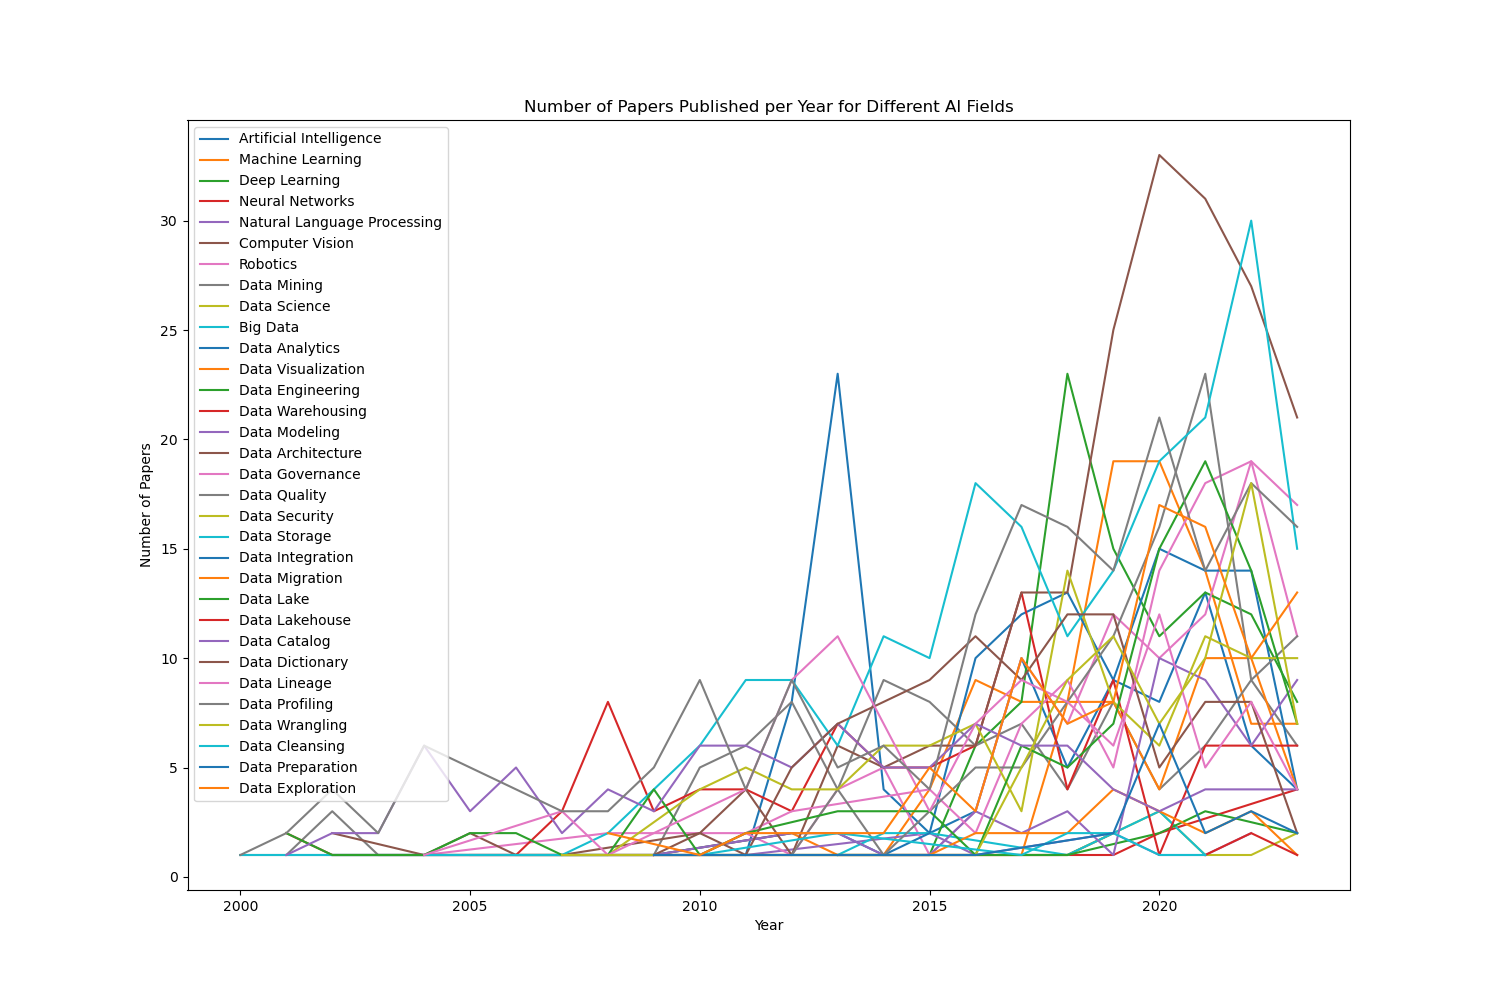
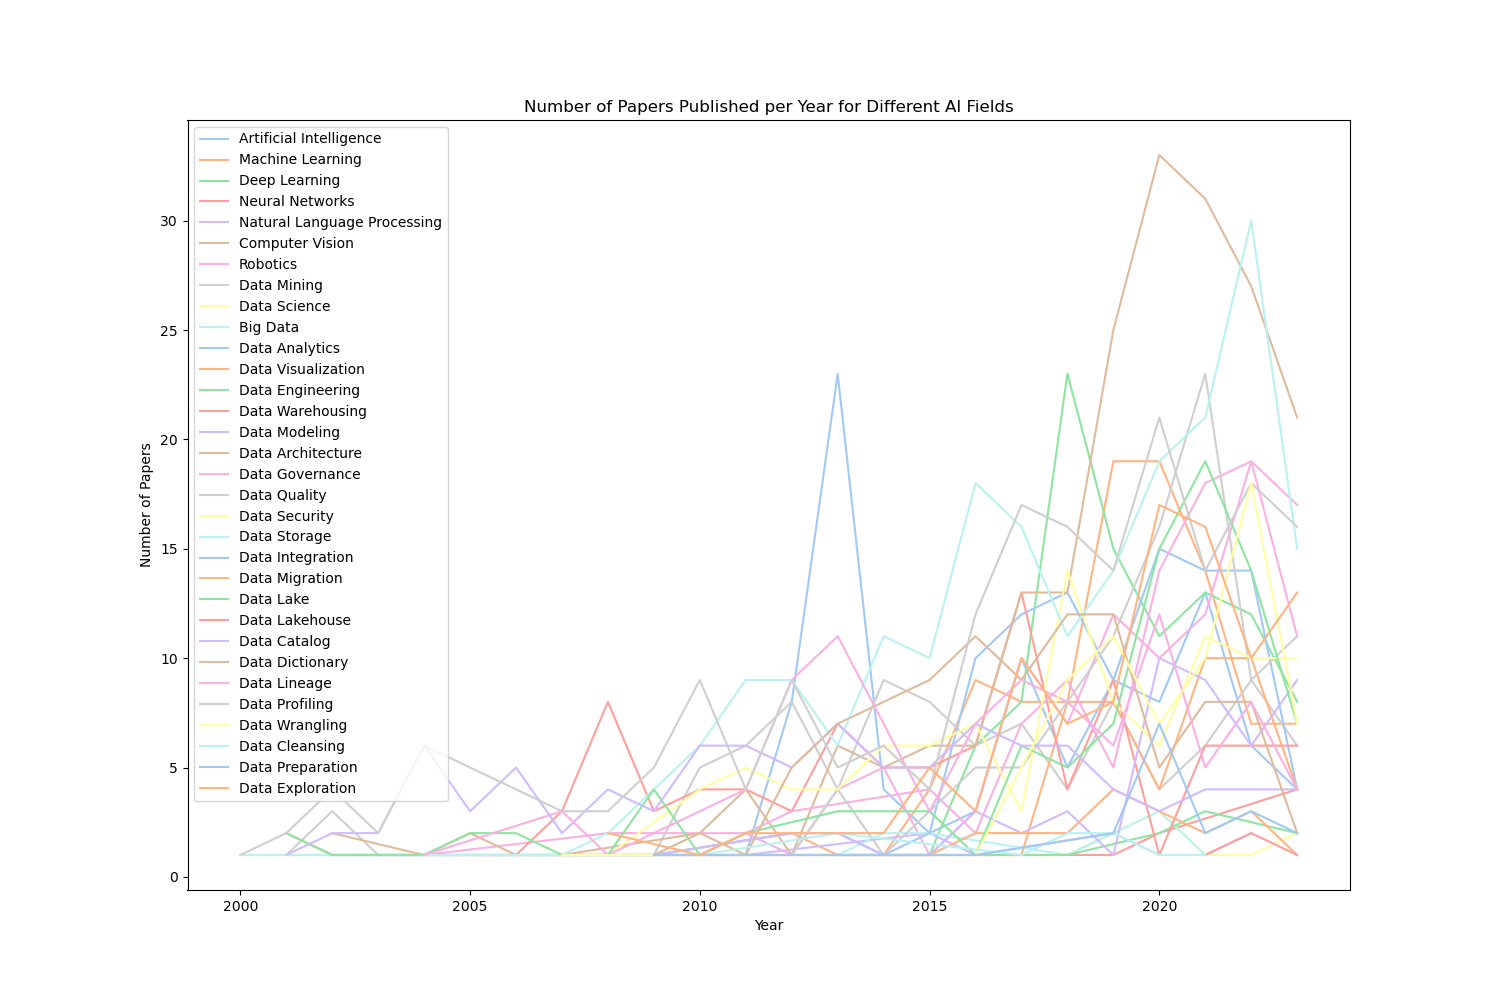
Made significant progress on RP. Data pull complete, picked plots and now made a gui for easy access

diff --git a/src/main.py b/src/main.py
@@ -6,37 +6,157 @@ over the course of a 10-year period, to track the growth of the field and to see
 if research has been speeding up or slowing down
 """
 
-#imports
+
+# imports
 import pandas as pd
 from src.arXiv_Api_Access import scrape_arxiv
 import matplotlib.pyplot as plt
 import seaborn as sns
+import tkinter as tk
+from matplotlib import widgets
+from matplotlib.backends.backend_tkagg import FigureCanvasTkAgg
+from matplotlib.figure import Figure
+from tkinter import Toplevel, Button, filedialog
+
+
+def update_data():
+   #update ai_research_data.xlsx with updated data
+   scrape_arxiv()
 
 
 
-# #update ai_research_data.xlsx with updated data
-# uncomment if needed to use
-# scrape_arxiv()
-#
-# # dataframe to be used through the program
+# Variables and options usable throughout the program
 df = pd.read_csv('data/ai_research_data.csv')
-
-#Line plot for number of papers published per year for each AI field
-plt.figure(figsize=[15,10])
-
-# Loop through each unique search query and plot a line for it
-for query in df['Query'].unique():
-    subset = df[df['Query'] == query]
-    subset['Year'].value_counts().sort_index().plot(label=query)
-
-plt.title('Number of Papers Published per Year for Different AI Fields')
-plt.xlabel('Year')
-plt.ylabel('Number of Papers')
-plt.legend()
-plt.savefig('output/Comparison_of_AI_Fields.png')
-plt.show()
-
-#
+pivot_data = df.groupby(['Year', 'Query']).size().reset_index(name='Count')
+pivot_data = pivot_data.pivot(index='Year', columns='Query', values='Count').fillna(0)
+total_sum = pivot_data.sum()
+sns.set_palette('pastel')
 
 
+def create_menu(window, figure):
+    menu_bar = tk.Menu(window)
+    window.config(menu=menu_bar)
 
+    file_menu = tk.Menu(menu_bar, tearoff=0)
+    menu_bar.add_cascade(label="File", menu=file_menu)
+
+    # Pass both window and figure to the save function
+    file_menu.add_command(label="Save", command=lambda: save(window, figure))
+
+
+def save(parent_window, figure):
+    # Create a new Toplevel window
+    save_window = tk.Toplevel(parent_window)
+
+    # Make it modal by setting it as transient to the parent window
+    save_window.transient(parent_window)
+
+    # Set the title for the dialog window
+    save_window.title("Save As")
+
+    # Create a label to prompt the user
+    tk.Label(save_window, text="Choose a location to save the file:").pack()
+
+    # Create a button to open the "Save As" file dialog
+    tk.Button(save_window, text="Save", command=lambda: save_file(figure, save_window)).pack()
+
+    # Run the main loop for the dialog window
+    save_window.mainloop()
+
+
+def save_file(figure, save_window):
+    file_path = filedialog.asksaveasfilename(defaultextension=".png", filetypes=[("PNG files", "*.png"), ("All files", "*.*")])
+    if file_path:
+        figure.savefig(file_path)
+    save_window.destroy()
+
+
+def main_window():
+    root = tk.Tk()
+    root.title("AI Research Analysis")
+
+    tk.Button(root, text="Update Data", command=update_data).pack()
+    tk.Button(root, text="Show Bar Graph", command=show_bar_graph).pack()
+    tk.Button(root, text="Show Stacked Area Plot", command=show_stacked_area_plot).pack()
+    tk.Button(root, text="Show Heat Map", command=show_heat_graph).pack()
+    tk.Button(root, text="Exit", command=root.quit).pack()
+
+    root.mainloop()
+
+def show_bar_graph():
+    fig = Figure(figsize=[15, 10])
+    ax = fig.add_subplot(111)
+    bar_data = pivot_data.reset_index().melt(id_vars='Year')
+    sns.barplot(data=bar_data, x='Year', y='value', hue='Query', ax=ax)
+    ax.set_title('Number of Papers Published per Year for Different AI Fields')
+    ax.set_xlabel('Year')
+    ax.set_ylabel('Number of Papers')
+    ax.legend(title='Subject', loc='upper left')
+
+    new_window = Toplevel()
+    new_window.title("Bar Graph")
+
+    # create save menu
+    create_menu(new_window, fig)
+
+    canvas = FigureCanvasTkAgg(fig, master=new_window)
+    canvas.draw()
+    canvas.get_tk_widget().pack(side="top", fill="both", expand=1)
+
+    new_window.mainloop()
+    pass
+
+def show_stacked_area_plot():
+    fig = Figure(figsize=[15, 10])
+    ax = fig.add_subplot(111)
+
+    # Plot the stacked area chart
+    ax.stackplot(pivot_data.index, pivot_data.T, labels=pivot_data.columns, alpha=0.6)
+    ax.set_title('Number of Papers Published per Year for Different AI Fields')
+    ax.set_xlabel('Year')
+    ax.set_ylabel('Number of Papers')
+    ax.legend(title='Subject', loc='upper left')
+
+    new_window = Toplevel()
+    new_window.title("Stacked Area Plot")
+
+    #create save menu
+    create_menu(new_window, fig)
+
+    canvas = FigureCanvasTkAgg(fig, master=new_window)
+    canvas.draw()
+    canvas.get_tk_widget().pack(side="top", fill="both", expand=1)
+
+    new_window.mainloop()
+
+    pass
+
+def show_heat_graph():
+    fig = Figure(figsize=[20, 10])
+    ax = fig.add_subplot(111)
+
+    sorted_columns = pivot_data.sum().sort_values(ascending=False).index
+    pivot_data_sorted = pivot_data[sorted_columns]
+    pivot_data_sorted_transposed = pivot_data_sorted.T
+    sns.heatmap(pivot_data_sorted_transposed, cmap='RdBu_r', annot=True, linewidths=.5, ax=ax)
+
+    ax.set_title('Heatmap of Papers Published per Year for Different AI Fields')
+    ax.set_xlabel('Year')
+    ax.set_ylabel('Subject')
+
+    new_window = Toplevel()
+    new_window.title("Heat Map")
+    # create save menu
+    create_menu(new_window, fig)
+
+    canvas = FigureCanvasTkAgg(fig, master=new_window)
+    canvas.draw()
+    canvas.get_tk_widget().pack(side="top", fill="both", expand=1)
+
+    new_window.mainloop()
+
+
+    pass
+
+if __name__ == "__main__":
+    main_window()
